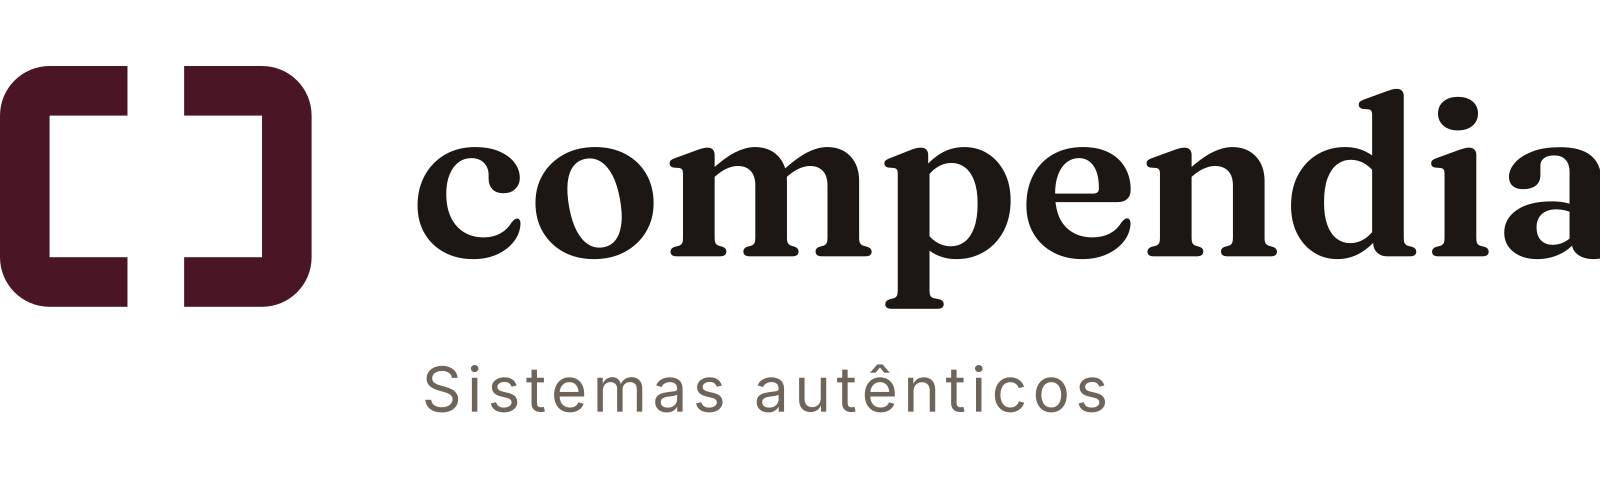
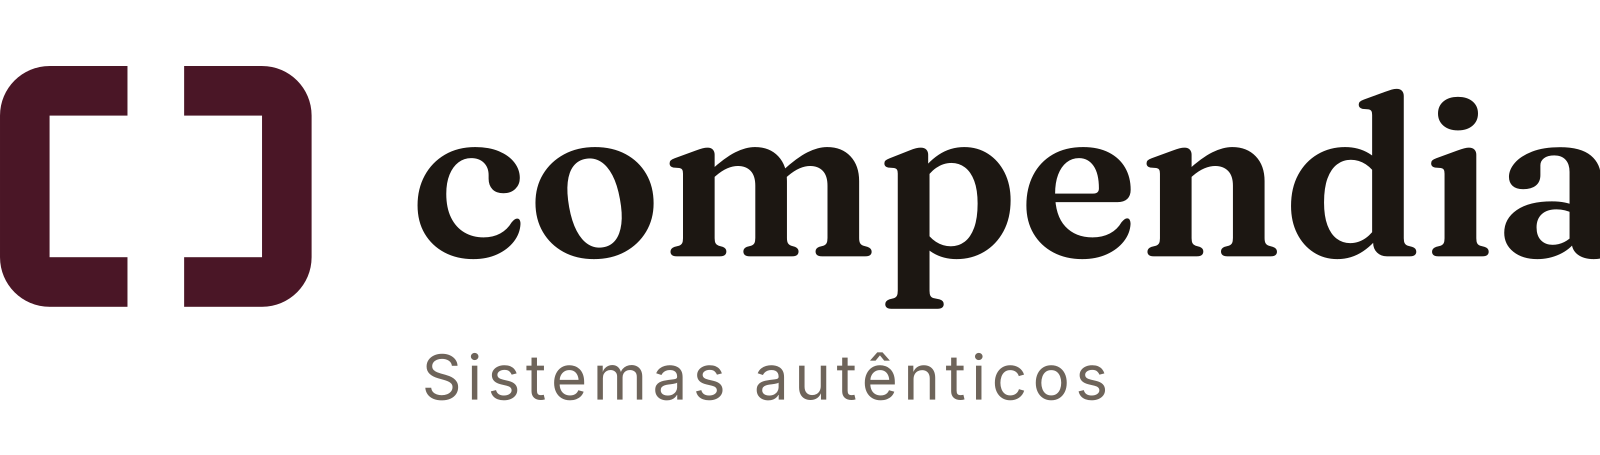
site: slogan a meia linha do nome
O afastamento deixou de ser numero escolhido a olho e virou medida: o vao
entre o pe de "compendia" e o topo de "Sistemas autenticos" vale meia
entrelinha do slogan (0,5 x 1,4 x tamanho). O gerador le a caixa real das duas
palavras e posiciona — nao ha valor chutado em peca nenhuma.

A proporcao declarada no HTML acompanhou: 412x117, que e o viewBox novo.
Atributo desatualizado faria o navegador reservar caixa errada.

O QUE ELE NAO FAZ: nao altera o simbolo, a cor, nem o texto da pagina.

diff --git a/index.html b/index.html
@@ -60,9 +60,9 @@
     <h1>
       <span class="oculto">Compendia — Sistemas autênticos</span>
       <img class="assinatura clara"  src="marca/assinatura.svg"
-           alt="" aria-hidden="true" width="412" height="126">
+           alt="" aria-hidden="true" width="412" height="117">
       <img class="assinatura escura" src="marca/assinatura-negativa.svg"
-           alt="" aria-hidden="true" width="412" height="126">
+           alt="" aria-hidden="true" width="412" height="117">
     </h1>
     <div class="regua"></div>
     <p>Site em construção.</p>
